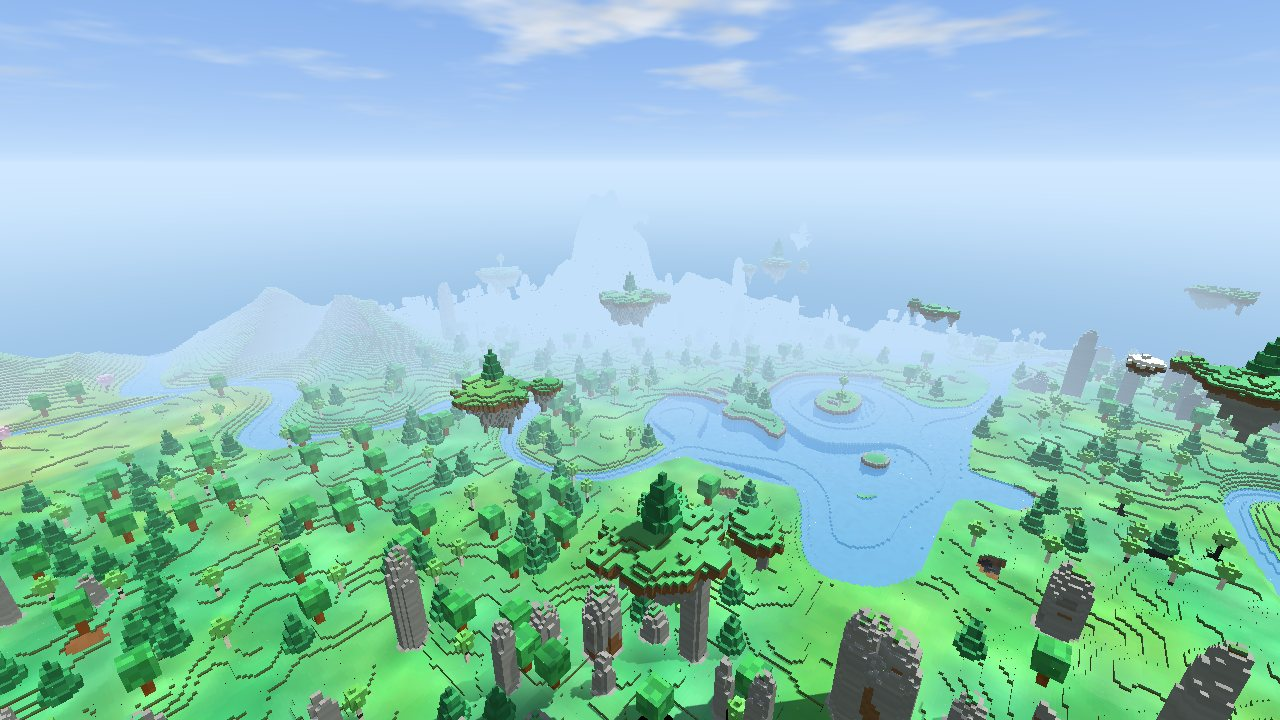
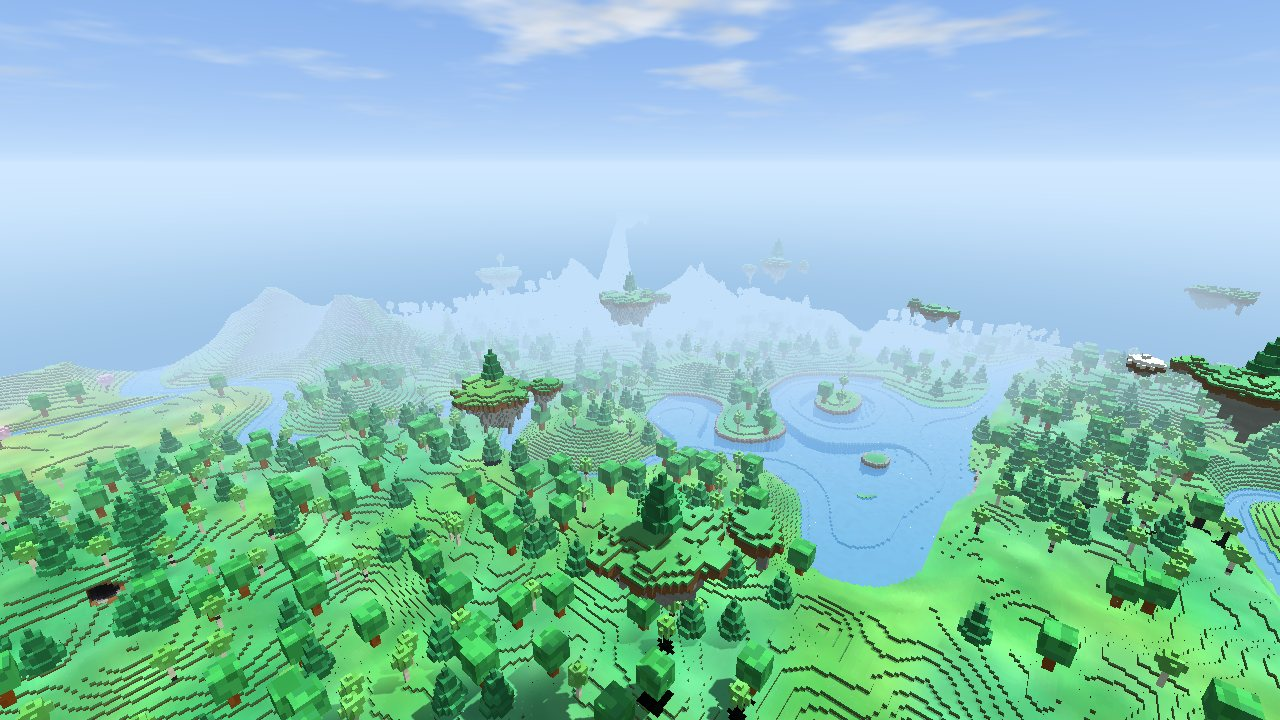
Generation 5: no stone spires (the author didn't like them) — that fantastic land is now emerald hills, rolling and wooded; codex and docs/worldgen updated
Claude-Session: https://claude.ai/code/session_0191Q4MKWBzgLeBnZiDeUXfF

diff --git a/src/world/Terrain.js b/src/world/Terrain.js
@@ -190,7 +190,7 @@ export const OLD_BEDROCK = -9;
 export const WORLD_GEN = 5;
 // 5: the new landscape (src/world/Landscape.js): big mountain ranges with sharp snowy peaks, no flat
 //    tops (the world is 120 layers high), kinds of land with their own grass and leaves, scarlet
-//    canyons, stone spires, moonlit groves, floating islands; flowers and tall grass (Flora.js).
+//    canyons, emerald hills, moonlit groves, floating islands; flowers and tall grass (Flora.js).
 //    A world made before keeps its generation (its saved changes lie on the land they were made on).
 // 4: caves as in Minecraft (src/world/CaveSystems.js): winding, branching, deep, chests in their chambers.
 // 3: a creative world has a test ground — a river right past the pedestals and a castle close by.
@@ -291,7 +291,7 @@ export function createHeightField(seed, mountains, seas = null, test = false, lu
     const land = lush ? createLandscape(seed) : null;
     const fn = (ix, iz) => {
         fn.water = 0; fn.sea = false; fn.beach = false; fn.kind = KIND.LAND;
-        fn.mesa = fn.shat = fn.moon = fn.fant = 0;
+        fn.mesa = fn.emer = fn.moon = fn.fant = 0;
         // the creative test ground's river: water just past the pedestals, a valley through the hills
         let rcap = Infinity;
         if (test) {
@@ -311,7 +311,7 @@ export function createHeightField(seed, mountains, seas = null, test = false, lu
             // (generation 5, far out: only the new landscape — the spawn's old hills not worked out)
             h = Math.round(land.height(ix, iz, dist));
             fn.kind = land.kind;
-            fn.mesa = land.mesa; fn.shat = land.shat; fn.moon = land.moon; fn.fant = land.fant;
+            fn.mesa = land.mesa; fn.emer = land.emer; fn.moon = land.moon; fn.fant = land.fant;
         } else {
             const n = 0.6 * noise(ix / 46, iz / 46) + 0.3 * noise2(ix / 17, iz / 17) + 0.1 * noise(ix / 6 + 31, iz / 6 - 17);
             const ridge = Math.max(0, (n + 0.05) / 0.65);
@@ -330,7 +330,7 @@ export function createHeightField(seed, mountains, seas = null, test = false, lu
                 if (lf > 0) {
                     h = Math.round(h + (land.height(ix, iz, dist) - h) * lf);
                     if (lf > 0.5) fn.kind = land.kind;
-                    fn.mesa = land.mesa; fn.shat = land.shat; fn.moon = land.moon; fn.fant = land.fant;
+                    fn.mesa = land.mesa; fn.emer = land.emer; fn.moon = land.moon; fn.fant = land.fant;
                 }
             }
         }
@@ -394,7 +394,7 @@ export function createHeightField(seed, mountains, seas = null, test = false, lu
     const hill = (ix, iz) => {
         let h = fn(ix, iz);
         hill.water = fn.water; hill.sea = fn.sea; hill.beach = fn.beach; hill.kind = fn.kind;
-        hill.mesa = fn.mesa; hill.shat = fn.shat; hill.moon = fn.moon; hill.fant = fn.fant;
+        hill.mesa = fn.mesa; hill.emer = fn.emer; hill.moon = fn.moon; hill.fant = fn.fant;
         const m = fn.water ? -Infinity : testHillHeight(ix, iz); // (the river keeps its bed: its water's top stays level, no raised channel)
         if (m > h) h = m;
         return h;
@@ -461,10 +461,10 @@ export class TerrainData {
             const idx = this.sites = new SiteIndex(this.castles, this.towers);
             const fn = (ix, iz) => {
                 const h = raw(ix, iz), wet = raw.water, sea = raw.sea, beach = raw.beach, kind = raw.kind; // (read before landAt: finding a site re-samples raw)
-                const mesa = raw.mesa, shat = raw.shat, moon = raw.moon, fant = raw.fant;
+                const mesa = raw.mesa, emer = raw.emer, moon = raw.moon, fant = raw.fant;
                 const land = idx.landAt(ix, iz);
                 fn.sea = sea; fn.beach = beach; fn.kind = kind;
-                fn.mesa = mesa; fn.shat = shat; fn.moon = moon; fn.fant = fant;
+                fn.mesa = mesa; fn.emer = emer; fn.moon = moon; fn.fant = fant;
                 if (land && land.side === 'sea') {
                     // beyond a sea castle's quay: the sea (dug deep in the harbour)
                     const k = land.castle.port;
@@ -479,7 +479,7 @@ export class TerrainData {
                 return land.w >= 1 ? F : Math.round(F + (h - F) * (1 - land.w));
             };
             fn.water = 0; fn.sea = false; fn.beach = false; fn.kind = KIND.LAND;
-            fn.mesa = fn.shat = fn.moon = fn.fant = 0;
+            fn.mesa = fn.emer = fn.moon = fn.fant = 0;
             this.heightAt = fn;
         } else this.heightAt = raw;
         this._caves = new Map();
@@ -558,7 +558,7 @@ export class TerrainData {
     /**
      * Generation 5 (Landscape.js): the ground of a chunk by its slopes and heights — bare rock on
      * cliffs and steep slopes, snow above the snow line (lower in the cold), alpine grass high up,
-     * the scarlet canyons' sand and striped rock, stone spires; every column's colours (its grass,
+     * the scarlet canyons' sand and striped rock; every column's colours (its grass,
      * its leaves' tint, its rock) kept in the chunk for the mesher (faceColor).
      */
     _generateLush(cx, cz) {
@@ -586,7 +586,7 @@ export class TerrainData {
                 water[col] = H.water;
                 flags[col] = (H.water ? 1 : 0) | (H.sea ? 2 : 0) | (H.beach ? 4 : 0);
                 kinds[col] = H.kind || 0;
-                fx.mesa = H.mesa || 0; fx.shat = H.shat || 0; fx.moon = H.moon || 0; fx.fant = H.fant || 0;
+                fx.mesa = H.mesa || 0; fx.emer = H.emer || 0; fx.moon = H.moon || 0; fx.fant = H.fant || 0;
                 land.climate(x, z, clim);
                 const spawn = 1 - smoothstep(60, 260, Math.sqrt(x * x + z * z));
                 bio[col] = land.biomes(clim, w, spawn, fx);
@@ -609,7 +609,6 @@ export class TerrainData {
                 const snow = land.snowLine(x, z, _lush.T[col]);
                 const m = mesa[col] / 255;
                 if (h >= snow + (slope >= 3 ? 7 : 0)) { surf = BLOCK.SNOW; soil = slope >= 2 ? BLOCK.STONE : BLOCK.DIRT; deep = 2; }
-                else if (kind === KIND.SPIRE) { surf = slope <= 1 && h - Math.min(hh[i0 + 1], hh[i0 - 1], hh[i0 + P], hh[i0 - P]) < 2 && r < 0.75 ? BLOCK.GRASS : BLOCK.STONE; soil = BLOCK.STONE; deep = 1; }
                 else if (kind === KIND.MESA && r < smoothstep(0.15, 0.5, m) * 1.1) { /* (at its edge the scarlet sand and the grass mingle) */ surf = slope >= 2 ? BLOCK.STONE : r < 0.12 * (1 - m) + 0.05 ? BLOCK.GRASS : BLOCK.SAND; soil = surf === BLOCK.SAND ? BLOCK.SAND : BLOCK.STONE; deep = 2; }
                 else if (slope >= 3 || (slope >= 2 && h > 24)) { surf = r < 0.12 ? BLOCK.GRAVEL : BLOCK.STONE; soil = BLOCK.STONE; deep = 0; }
                 else if (h > 36 && r < smoothstep(36, 60, h) * 0.55) { surf = r < 0.06 ? BLOCK.GRAVEL : BLOCK.STONE; soil = BLOCK.STONE; }
@@ -648,7 +647,7 @@ export class TerrainData {
         const H = this.heightAt, land = this.land;
         H(x, z);
         const fx = _lush.fx2;
-        fx.mesa = H.mesa || 0; fx.shat = H.shat || 0; fx.moon = H.moon || 0; fx.fant = H.fant || 0;
+        fx.mesa = H.mesa || 0; fx.emer = H.emer || 0; fx.moon = H.moon || 0; fx.fant = H.fant || 0;
         land.climate(x, z, _lush.clim2);
         return land.biomes(_lush.clim2, _lush.w2, 1 - smoothstep(60, 260, Math.sqrt(x * x + z * z)), fx);
     }
@@ -681,7 +680,7 @@ export class TerrainData {
                 const b = BIOMES[this.biomeAt(tx, tz)];
                 if (roll > b.trees * grove(tx, tz)) continue;
                 const h = H(tx, tz);
-                if (h < 1 || H.water || H.beach || H.kind === KIND.SPIRE || H.kind === KIND.MESA) continue;
+                if (h < 1 || H.water || H.beach || H.kind === KIND.MESA) continue;
                 const kind = b.kinds[Math.floor(hashLand(gx * 3 + 1, gz * 5 + 2, this.seed + 13) * b.kinds.length)];
                 if (h > LUSH.TREE_LINE + (kind === 2 ? 8 : 0)) continue;
                 if (this.seas && this.seas.signedDist(tx, tz) > -SEA.BEACH - 6) continue;
@@ -719,7 +718,7 @@ export class TerrainData {
         const x = Math.round((gx + 0.2 + 0.6 * hashLand(gx, gz, S + 301)) * C), z = Math.round((gz + 0.2 + 0.6 * hashLand(gz, gx, S + 302)) * C);
         if (x * x + z * z >= LUSH.ISLE_MIN * LUSH.ISLE_MIN) {
             H(x, z);
-            const chance = 0.025 + 0.55 * ((H.moon || 0) + (H.shat || 0)) + 0.15 * (H.mesa || 0);
+            const chance = 0.025 + 0.55 * ((H.moon || 0) + (H.emer || 0)) + 0.15 * (H.mesa || 0);
             const R = ISLE.R_MIN + Math.floor(hashLand(gx + 5, gz - 2, S + 303) * (ISLE.R_MAX - ISLE.R_MIN + 1));
             if (hashLand(gx - 9, gz + 4, S + 304) < chance && !(this.sites && this.sites.near(x, z, R * 2 + 40).length)) {
                 // the highest ground under it and round it

diff --git a/src/world/Landscape.js b/src/world/Landscape.js
@@ -7,8 +7,8 @@
  *
  * The ideas (not the code) of the well-known Minecraft world mods: long mountain ranges with sharp
  * peaks, ridges, crags and deep valleys between them; high plateaus with cliffs; many kinds of land
- * melting into each other; fantastic places — scarlet canyons with striped walls, «shattered» land
- * of tall stone spires, moonlit groves, islands floating in the sky (TerrainData._floatIslands);
+ * melting into each other; fantastic places — scarlet canyons with striped walls, emerald hills,
+ * moonlit groves, islands floating in the sky (TerrainData._floatIslands);
  * the grass and the leaves change their colour from place to place.
  *
  *  - The height: rolling hills everywhere; mountain regions (long ranges, Tectonic-like) built of a
@@ -37,7 +37,7 @@ export const LUSH = {
 };
 
 /** Land kinds of a column (fn.kind of the height field). */
-export const KIND = { LAND: 0, SPIRE: 1, MESA: 2, CLIFF: 3 };
+export const KIND = { LAND: 0, MESA: 2, CLIFF: 3 }; // (1 was the stone spires — taken out: the author didn't like them)
 
 /**
  * The kinds of land. T, W: their warmth and wetness (−1…1); fant: a fantastic land (only where the
@@ -58,7 +58,7 @@ export const BIOMES = [
     // the fantastic lands (far from the spawn)
     { id: 'moon', name: 'Лунная роща', fant: 'moon', grass: 0x3a8a86, grass2: 0x6a66c0, leaf: [[0x8a57d6, 0x5a7fe0, 0x6f4ab8], 0.82], trees: 0.4, kinds: [4, 1, 0, 4], tall: [0.42, 0.4, 0.95], flowers: [0.1, 0x7ff9ff, 0xd08bff, 0x9fd0ff], glow: true },
     { id: 'mesa', name: 'Алые каньоны', fant: 'mesa', grass: 0x9a9a48, grass2: 0xb3a24f, leaf: [[0x8a9a3a], 0.4], trees: 0.03, kinds: [0, 4], tall: [0.12, 0.4, 0.8], flowers: [0.02, 0xff7a2a, 0xe8413c] },
-    { id: 'shattered', name: 'Расколотые скалы', fant: 'shattered', grass: 0x3e9a55, grass2: 0x62b06a, leaf: [[0x2f9a5a], 0.4], trees: 0.18, kinds: [2, 0, 1], tall: [0.3, 0.35, 0.8], flowers: [0.06, 0xf6f4ee, 0xffd84a, 0x7fd0ff] },
+    { id: 'emerald', name: 'Изумрудные холмы', fant: 'emerald', grass: 0x3e9a55, grass2: 0x62b06a, leaf: [[0x2f9a5a], 0.4], trees: 0.3, kinds: [2, 0, 1], tall: [0.3, 0.35, 0.8], flowers: [0.06, 0xf6f4ee, 0xffd84a, 0x7fd0ff] },
 ];
 export const BIOME = Object.fromEntries(BIOMES.map((b, i) => [b.id, i]));
 const N_PLAIN = BIOMES.findIndex((b) => b.fant);
@@ -100,7 +100,7 @@ export function createLandscape(seed) {
 
     const L = {
         /** Last height(): the kind of land (KIND), the fantastic lands' weights, the wonder share. */
-        kind: KIND.LAND, mesa: 0, shat: 0, moon: 0, fant: 0, spire: 0,
+        kind: KIND.LAND, mesa: 0, emer: 0, moon: 0, fant: 0,
     };
 
     /** Climate of a column: warmth, wetness, wonder (filled into `out`). */
@@ -112,17 +112,17 @@ export function createLandscape(seed) {
         return out;
     };
 
-    /** The fantastic lands' weights of a column (L.mesa, L.shat, L.moon; L.fant their sum). */
+    /** The fantastic lands' weights of a column (L.mesa, L.emer, L.moon; L.fant their sum). */
     const wonder = (x, z, dist) => {
         const far = smoothstep(LUSH.WONDER_NEAR, LUSH.WONDER_FAR, dist);
-        if (far <= 0) { L.fant = L.mesa = L.shat = L.moon = 0; return; }
+        if (far <= 0) { L.fant = L.mesa = L.emer = L.moon = 0; return; }
         const f = 1.25 * nF((x * 0.6 + z * 0.8) / 900, (z * 0.6 - x * 0.8) / 900) + 0.3 * nF(x / 240 + 77, z / 240 + 5);
         const fant = smoothstep(0.34, 0.58, f) * far;
         L.fant = fant;
-        if (fant <= 0) { L.mesa = L.shat = L.moon = 0; return; }
+        if (fant <= 0) { L.mesa = L.emer = L.moon = 0; return; }
         const k = nK(x / 520, z / 520);
-        const mesa = smoothstep(-0.06, -0.24, k), shat = smoothstep(0.06, 0.24, k);
-        L.mesa = fant * mesa; L.shat = fant * shat; L.moon = fant * (1 - mesa - shat);
+        const mesa = smoothstep(-0.06, -0.24, k), emer = smoothstep(0.06, 0.24, k);
+        L.mesa = fant * mesa; L.emer = fant * emer; L.moon = fant * (1 - mesa - emer);
     };
 
     /** Ridged multifractal: sharp crests, gullies between; ~0…1. */
@@ -151,10 +151,10 @@ export function createLandscape(seed) {
 
     /**
      * The far land's height at a column (a float, before rivers, lakes, seas), `dist` its distance
-     * from the spawn. Sets L.kind (a stone spire, the scarlet rock…) and the wonder weights.
+     * from the spawn. Sets L.kind (the scarlet rock, a cliff…) and the wonder weights.
      */
     L.height = (x, z, dist) => {
-        L.kind = KIND.LAND; L.spire = 0;
+        L.kind = KIND.LAND;
         wonder(x, z, dist);
         // the land's own big shapes
         const wx = x + 60 * nWarp(x / 400, z / 400), wz = z + 60 * nWarp(x / 400 + 31, z / 400 - 47);
@@ -194,28 +194,8 @@ export function createLandscape(seed) {
             h = h + (mh - h) * smoothstep(0, 0.6, L.mesa);
             if (L.mesa > 0.3) L.kind = KIND.MESA;
         }
-        // shattered land: tall stone spires out of broken ground
-        if (L.shat > 0) {
-            const C = 11, gx = Math.floor(x / C), gz = Math.floor(z / C);
-            // (spires stand in groups, with open glades between: no forest of stone pillars)
-            const group = smoothstep(-0.1, 0.45, nS(x / 70 + 33, z / 70 - 21)) * L.shat * 0.32;
-            let best = 0;
-            for (let dz = -1; dz <= 1; dz++) for (let dx = -1; dx <= 1; dx++) {
-                const cx = gx + dx, cz = gz + dz;
-                if (hashLand(cx, cz, s + 61) > group) continue;
-                const px = (cx + 0.2 + 0.6 * hashLand(cz, cx, s + 62)) * C, pz = (cz + 0.2 + 0.6 * hashLand(cx + 7, cz - 3, s + 63)) * C;
-                const r = 1.8 + 2.9 * hashLand(cx - 5, cz + 9, s + 64);
-                const ddx = x - px, ddz = z - pz, d2 = ddx * ddx + ddz * ddz;
-                if (d2 > r * r) continue;
-                const k = d2 / (r * r);
-                const q = hashLand(cx + 3, cz + 11, s + 65);
-                const tall = (9 + 34 * q * q) * (0.45 + 0.55 * L.shat);
-                const top = tall * (1 - 0.25 * k * k) - 2.5 * k + 1.5 * nS(x / 2.3, z / 2.3);
-                if (top > best) best = top;
-            }
-            h -= 2.5 * L.shat * (0.5 + 0.5 * nS(x / 9, z / 9)); // (the broken ground between)
-            if (best > 0) { const sp = h + best; if (sp > h + 2) { h = sp; L.kind = KIND.SPIRE; L.spire = 1; } }
-        }
+        // emerald hills: round green hills rolling one into another (the stone spires that stood here were taken out at the author's wish)
+        if (L.emer > 0) h += L.emer * (5 + 5 * nS(x / 46 + 33, z / 46 - 21) + 2.5 * nS(x / 15 - 8, z / 15 + 12));
         // no ceiling: the highest ground only rises less steeply (smoothly — a peak keeps its point)
         if (h > LUSH.SOFT) { const e = h - LUSH.SOFT, K = LUSH.TOP - LUSH.SOFT; h = LUSH.SOFT + (e * K) / (K + e * 0.85); } // (→ at most SOFT + K/0.85 ≈ 116)
         return h;
@@ -233,7 +213,7 @@ export function createLandscape(seed) {
 
     /**
      * The kinds of land at a column: their weights into `w` (Float32Array(BIOMES.length), summing
-     * to 1); returns the strongest kind. `fx`: the column's fantastic lands' weights ({mesa, shat,
+     * to 1); returns the strongest kind. `fx`: the column's fantastic lands' weights ({mesa, emer,
      * moon, fant} — the height field's flags); `spawn`: 0…1, near the spawn a fresh meadow.
      */
     L.biomes = (c, w, spawn, fx) => {
@@ -247,7 +227,7 @@ export function createLandscape(seed) {
             w[i] = k * plain + 1e-4;
         }
         w[BIOME.meadow] += 0.6 * spawn;
-        w[BIOME.moon] = fx.moon * 1.4; w[BIOME.mesa] = fx.mesa * 1.4; w[BIOME.shattered] = fx.shat * 1.4;
+        w[BIOME.moon] = fx.moon * 1.4; w[BIOME.mesa] = fx.mesa * 1.4; w[BIOME.emerald] = fx.emer * 1.4;
         let best = 0;
         for (let i = 0; i < NB; i++) { sum += w[i]; if (w[i] > w[best]) best = i; }
         for (let i = 0; i < NB; i++) w[i] /= sum;

diff --git a/src/ui/Codex.js b/src/ui/Codex.js
@@ -219,7 +219,7 @@ export const MECHANICS = [
     { icon: '🏔', title: 'Земли мира', lead: 'В новых мирах земля разная: большие горы с острыми снежными вершинами, долины с реками, луга, леса и волшебные края. Начало мира — прежняя ровная поляна.', points: [
         'Горы тянутся длинными хребтами, вершины до 110 м — без плоского «потолка». Наверху снег, на крутых склонах и обрывах — голая скала.',
         'Края переходят друг в друга плавно, у каждого своя трава и листва: цветущие луга, леса, золотая осень, вишнёвые долины, пышные заросли, тайга, золотая степь, холодные нагорья.',
-        'Дальше от начала (от ~400 м) — волшебные края: лунные рощи (фиолетовая листва, светящиеся цветы), алые каньоны (полосатые скалы, красный песок), расколотые скалы (каменные столбы).',
+        'Дальше от начала (от ~400 м) — волшебные края: лунные рощи (фиолетовая листва, светящиеся цветы), алые каньоны (полосатые скалы, красный песок), изумрудные холмы.',
         'Над волшебными краями парят острова с травой и деревом. Их можно разрушить заклинанием, но вниз они не падают.',
         'Высокая трава и цветы — только красота: сквозь них ходишь, как в жизни.',
         'Миры, созданные раньше, остаются такими, какими были.',

diff --git a/docs/worldgen/README.md b/docs/worldgen/README.md
@@ -23,7 +23,7 @@
   между хребтами — долины, по ним текут реки.
 - Края мира плавно переходят друг в друга, у каждого своя трава и листва: цветущие луга, леса,
   золотая осень, вишнёвые долины, пышные заросли, тайга, золотая степь, холодные нагорья.
-  Далеко от начала — волшебные края: лунные рощи, алые каньоны, расколотые скалы и парящие острова.
+  Далеко от начала — волшебные края: лунные рощи, алые каньоны, изумрудные холмы и парящие острова.
 - Трава с переливами: пятна светлее и темнее, тёплые и холодные оттенки; на склонах бахрома травы
   над землёй. Вокруг игрока — высокая трава разной высоты и цветы (сквозь них ходишь, как в жизни).
 - Старые сохранённые миры не меняются: у каждого мира записана его версия генерации.
